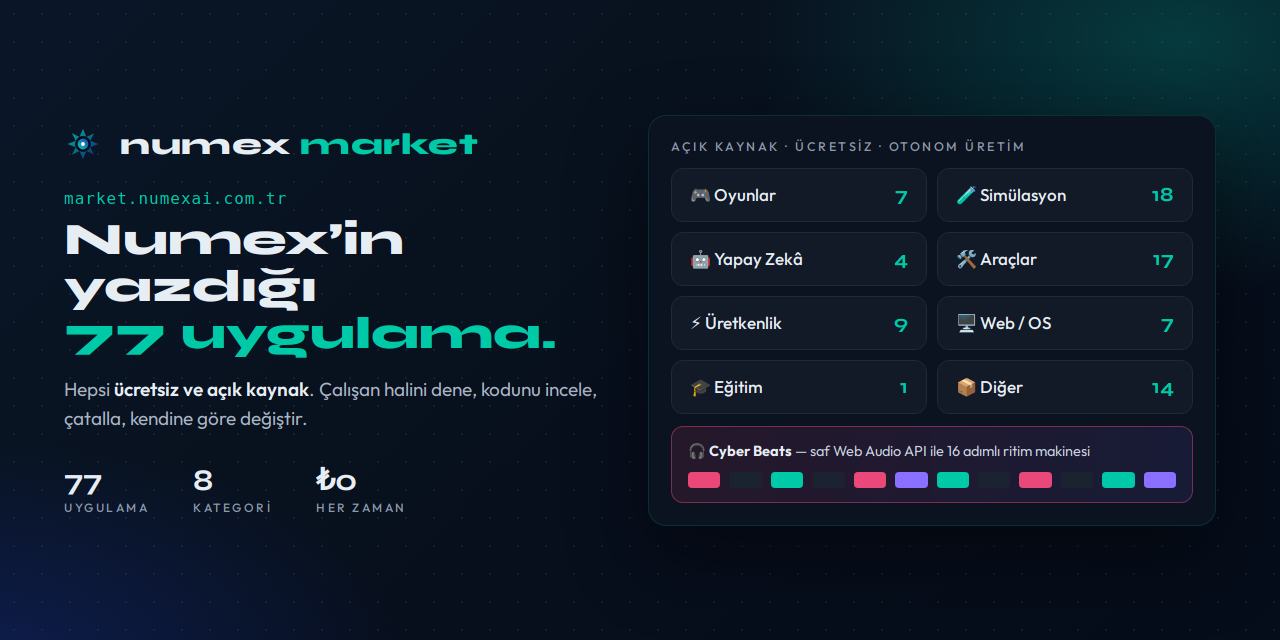
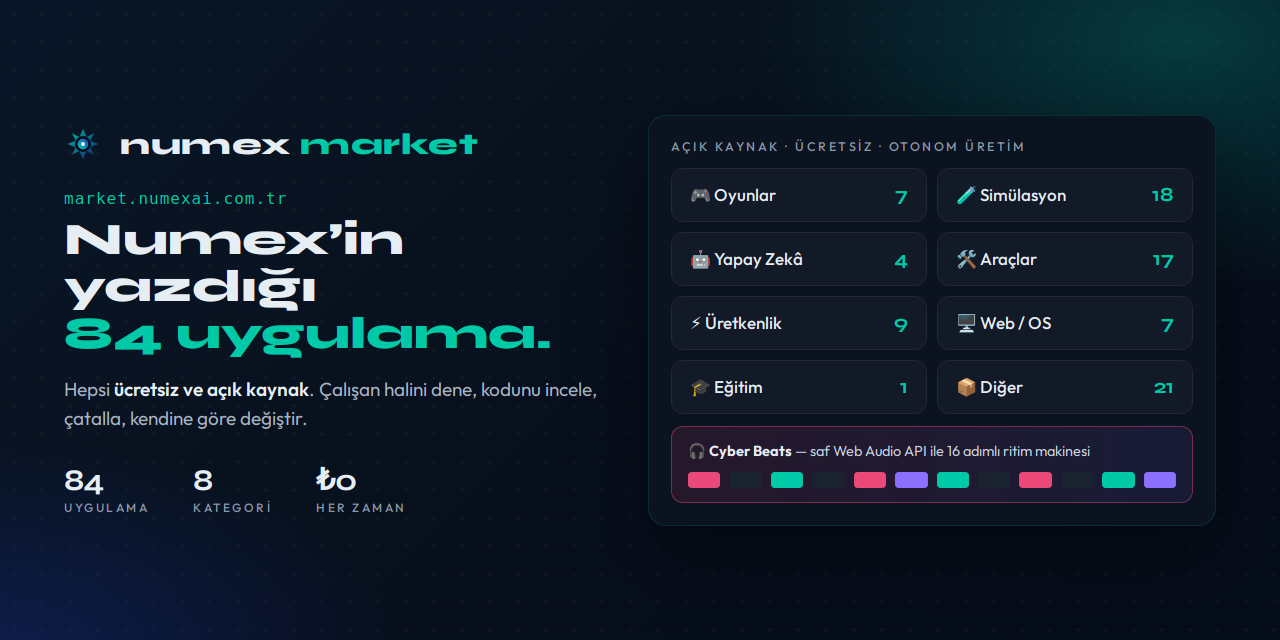
Market güncellendi (numexai.com.tr vitrininden)

Changed region(s): [[0.0312, 0.5, 0.4375, 0.5625], [0.0312, 0.7188, 0.0938, 0.7812], [0.9062, 0.5938, 0.9375, 0.625]]

diff --git a/README.md b/README.md
@@ -45,8 +45,8 @@ Türkçe'ye ve Türk kullanıcısına özel — verileri Türkiye'de, KVKK uyuml
 <a href="https://okul.numexai.com.tr">okul.numexai.com.tr</a> · <a href="urunler/11-numex-okul.md">ayrıntı</a></td>
 </tr>
 <tr>
-<td width="50%"><a href="https://market.numexai.com.tr"><img src="gorseller/kart-market.png" alt="Numex Market — 77 açık kaynak uygulama"></a>
-<b>🛍 Numex Market</b> — Numex'in kendi yazdığı 77 ücretsiz, açık kaynak uygulama<br>
+<td width="50%"><a href="https://market.numexai.com.tr"><img src="gorseller/kart-market.png" alt="Numex Market — 84 açık kaynak uygulama"></a>
+<b>🛍 Numex Market</b> — Numex'in kendi yazdığı 84 ücretsiz, açık kaynak uygulama<br>
 <a href="https://market.numexai.com.tr">market.numexai.com.tr</a> · <a href="urunler/13-numex-market.md">ayrıntı</a></td>
 <td width="50%"><a href="https://pedia.numexai.com.tr"><img src="gorseller/kart-pedia.png" alt="Numexpedia — özgür Türkçe ansiklopedi"></a>
 <b>📖 Numexpedia</b> — bilgisayar ve yapay zekâ, sade Türkçe ile; 28 makale<br>
@@ -90,7 +90,7 @@ Türkçe'ye ve Türk kullanıcısına özel — verileri Türkiye'de, KVKK uyuml
 | **2 × 256 GB** | RAM, çift sunucu | SAS + NAS depolama |
 | **%100** | KVKK uyumu | Veriler Türkiye'de |
 | **100.000** | Hediye token | Geliştirici API'sinde ilk kayıtta |
-| **77** | Açık kaynak uygulama | Numex Market · 8 kategori · ₺0 |
+| **84** | Açık kaynak uygulama | Numex Market · 8 kategori · ₺0 |
 | **28** | Türkçe makale | Numexpedia · 8 kategori |
 | **16+** | Aile üyesi | Uygulamalar · Geliştirici araçları · Platform & topluluk |
 
@@ -143,7 +143,7 @@ flowchart TB
 | [numexai.com.tr/aile](https://www.numexai.com.tr/aile) | Numex Ailesi haritası |
 | [codex.numexai.com.tr](https://codex.numexai.com.tr) | Numex Codex — IDE, VS Code eklentisi, CLI |
 | [okul.numexai.com.tr](https://okul.numexai.com.tr) | Numex Okul — doğrulanmış testler |
-| [market.numexai.com.tr](https://market.numexai.com.tr) | Numex Market — 77 açık kaynak uygulama |
+| [market.numexai.com.tr](https://market.numexai.com.tr) | Numex Market — 84 açık kaynak uygulama |
 | [dene.numexai.com.tr](https://dene.numexai.com.tr/cyberbeats/) | Market uygulamalarının canlı demoları |
 | [hub.numexai.com.tr](https://hub.numexai.com.tr) | Numex Hub — AI depo yönetimi, Topluluk Vitrini |
 | [forge.numexai.com.tr](https://forge.numexai.com.tr) | Numex Forge — Gitea tabanlı Git sunucusu |
@@ -160,7 +160,7 @@ flowchart TB
 | 💬 | **Numex AI** | Herkes | Türkçe sohbet, kod, görsel, ses, belge analizi, web araması, karakterler, Agent modu | [→](urunler/01-numex-ai-platform.md) |
 | 🎓 | **Numex Okul** | Öğrenci · veli · öğretmen | Bir AI soruyu üretir, ikinci AI doğrular; LGS/TYT/AYT/ehliyet; ekranda çöz veya PDF | [→](urunler/11-numex-okul.md) |
 | 🧩 | **Numex Codex** | Geliştirici | Türkçe kod ajanı: Web editör, masaüstü IDE (v2.9.59), VS Code eklentisi; Sohbet · Plan · Otonom · Hata Avcısı | [→](urunler/03-numex-codex-ide.md) |
-| 🛍 | **Numex Market** | Herkes | Numex'in otonom ürettiği 77 ücretsiz, açık kaynak uygulama; 8 kategori | [→](urunler/13-numex-market.md) |
+| 🛍 | **Numex Market** | Herkes | Numex'in otonom ürettiği 84 ücretsiz, açık kaynak uygulama; 8 kategori | [→](urunler/13-numex-market.md) |
 | ⌨ | **Numex CLI** | Geliştirici | Terminalde otonom ajan (v3.3.10), misyon/plan modu, uzaktan PC köprüsü, MCP | [→](urunler/02-numex-cli.md) |
 | 🧰 | **Codex SDK** | Geliştirici | Çekirdeği uygulamana göm: chat · embeddings · images · models · search · CLI Bridge | [→](urunler/05-api-ve-sdk.md) |
 | 🔌 | **Developer API** | Yazılım ekipleri | REST v1; `numex-pro` · `fast` · `think` · `vision` · `code`; streaming, function calling; ilk kayıtta 100K token | [→](urunler/05-api-ve-sdk.md) |
@@ -331,7 +331,7 @@ KDV dahil, şeffaf. Yıllık ödemede **2 ay bedava**.
 | **2024** | **Detective Mode™** — çoklu model tartışma ve hakem sistemi. |
 | **2025** | **v3.0** — sıfırdan yeniden yazım: Pipeline, karakterler, planlar, Dış API (`/v1/chat/completions`), admin paneli, çift sunucu. **DeepView™ v1.0** (Mart). |
 | **2026 Şubat** | **v3.1** — ilk genel kullanıcı sürümü: Pro/Fast/Vision/Code, paylaşılabilir sohbetler, misafir kullanım, OAuth, Codex editörü. |
-| **2026** | **Numex Ailesi**: Codex IDE v2.9.59 & CLI v3.3.10, Okul, Market (77 uygulama), Numexpedia, Hub & Forge, Oyun Bahçesi; aynı ekipten **Pusulam** ve **PC Doktoru v3.1**. |
+| **2026** | **Numex Ailesi**: Codex IDE v2.9.59 & CLI v3.3.10, Okul, Market (84 uygulama), Numexpedia, Hub & Forge, Oyun Bahçesi; aynı ekipten **Pusulam** ve **PC Doktoru v3.1**. |
 
 **Kurucu — Nurullah Şahin** · Kurucu & AI Mimarı. Sivas Gürün kökenli, İstanbul'da yaşayan teknoloji
 girişimcisi; 2010'dan bu yana yapay zeka ve makine öğrenmesi alanında çalışıyor. Panorama Istanbul

diff --git a/README.en.md b/README.en.md
@@ -35,8 +35,8 @@ Turkish-first by design — data stays in Türkiye, KVKK (Turkish GDPR) complian
 <a href="https://okul.numexai.com.tr">okul.numexai.com.tr</a> · <a href="urunler/11-numex-okul.md">details</a></td>
 </tr>
 <tr>
-<td width="50%"><a href="https://market.numexai.com.tr"><img src="gorseller/kart-market.png" alt="Numex Market — 77 açık kaynak uygulama"></a>
-<b>🛍 Numex Market</b> — 77 free, open-source apps Numex built by itself<br>
+<td width="50%"><a href="https://market.numexai.com.tr"><img src="gorseller/kart-market.png" alt="Numex Market — 84 açık kaynak uygulama"></a>
+<b>🛍 Numex Market</b> — 84 free, open-source apps Numex built by itself<br>
 <a href="https://market.numexai.com.tr">market.numexai.com.tr</a> · <a href="urunler/13-numex-market.md">details</a></td>
 <td width="50%"><a href="https://pedia.numexai.com.tr"><img src="gorseller/kart-pedia.png" alt="Numexpedia — özgür Türkçe ansiklopedi"></a>
 <b>📖 Numexpedia</b> — computing and AI explained in plain Turkish; 28 articles<br>
@@ -54,7 +54,7 @@ Turkish-first by design — data stays in Türkiye, KVKK (Turkish GDPR) complian
 | **16+** | Products in the Numex family |
 | **5-stage** | Pipeline that turns every answer into natural Turkish |
 | **128K** | Token context window |
-| **77** | Open-source apps in Numex Market, all built autonomously |
+| **84** | Open-source apps in Numex Market, all built autonomously |
 | **28** | Articles in Numexpedia, a free Turkish encyclopedia |
 | **2 × 256 GB** | RAM, dual-server infrastructure in Türkiye |
 | **100,000** | Free API tokens on sign-up |
@@ -100,7 +100,7 @@ flowchart TB
 | 💬 **Numex AI** | Everyone | Turkish chat, code, documents, web search, vision, voice, cultural characters, Agent mode | [numexai.com.tr](https://numexai.com.tr) |
 | 🎓 **Numex Okul** | Students, parents, teachers | One AI writes each question, a second AI solves it independently; mismatches are discarded. LGS/TYT/AYT exam prep, driving test; solve on screen or export PDF | [okul.numexai.com.tr](https://okul.numexai.com.tr) |
 | 🧩 **Numex Codex** | Developers | Turkish coding agent: browser editor, desktop IDE (v2.9.59, VS Code based), VS Code extension. Modes: Chat · Plan · Autonomous · Bug Hunter | [codex.numexai.com.tr](https://codex.numexai.com.tr) |
-| 🛍 **Numex Market** | Everyone | 77 free, open-source apps Numex built autonomously, in 8 categories — try live, read the source, fork | [market.numexai.com.tr](https://market.numexai.com.tr) |
+| 🛍 **Numex Market** | Everyone | 84 free, open-source apps Numex built autonomously, in 8 categories — try live, read the source, fork | [market.numexai.com.tr](https://market.numexai.com.tr) |
 | ⌨ **Numex CLI** | Developers | Autonomous agent in the terminal (v3.3.10): plan mode, long-running missions, undo, offline via Ollama, remote-PC bridge, MCP | `npm i -g @numexai/cli` |
 | 🧰 **Codex SDK** | Developers | chat · embeddings · images · models · search + a CLI Bridge to embed the agent anywhere | `npm i numexcodex-sdk` |
 | 🔌 **Developer API** | Teams | REST v1 with `numex-pro`, `numex-fast`, `numex-think`, `numex-vision`, `numex-code`; streaming, function calling | [API docs](urunler/05-api-ve-sdk.md) |
@@ -129,7 +129,7 @@ flowchart TB
    cannot be marked "done" without live evidence — HTTP 200, passing tests, or DOM checks.
 
 **Proof over claims** runs through the whole family: Detective Mode in chat, dual-AI verification
-in Okul, FinishGate in code — and Numex Market, where 77 autonomously built, verified apps are open
+in Okul, FinishGate in code — and Numex Market, where 84 autonomously built, verified apps are open
 for anyone to inspect.
 
 ## 🇹🇷 Cultural characters

diff --git a/urunler/13-numex-market.md b/urunler/13-numex-market.md
@@ -7,7 +7,7 @@
 > **Numex AI'nın sıfırdan kodladığı uygulamalar — hepsi ücretsiz ve açık kaynak.**
 > İster çalışan halini indir, ister kodunu incele, ister kendine göre değiştir.
 
-| **77** | **8** | **₺0** |
+| **84** | **8** | **₺0** |
 |:---:|:---:|:---:|
 | Uygulama | Kategori | Her zaman ücretsiz |
 
@@ -51,7 +51,7 @@ Market uygulamaları **dene.numexai.com.tr** üzerinde kurulum gerektirmeden can
 | 🔊 **Ses motoru** | Tüm sesler **saf Web Audio API** ile sentezlenir — tek bir ses dosyası yok |
 | 🎨 **Tasarım** | Neon siberpunk arayüz, durum göstergesi (● ÇALIYOR) |
 
-Bir cümlelik istekten çalışan, test edilmiş ve yayınlanmış bir uygulamaya: Market'teki 77
+Bir cümlelik istekten çalışan, test edilmiş ve yayınlanmış bir uygulamaya: Market'teki 84
 uygulamanın her biri bu hattan geçti.
 
 ## Nasıl kullanılır?
@@ -66,7 +66,7 @@ uygulamanın her biri bu hattan geçti.
 ```mermaid
 flowchart LR
   CORE[🧠 Core — Beyin<br/>otonom üretim] --> FORGE[(🏗 Forge<br/>kaynak kod)]
-  FORGE --> MARKET[🛍 Market<br/>77 uygulama]
+  FORGE --> MARKET[🛍 Market<br/>84 uygulama]
   MARKET -->|indir| USER[👤 Kullanıcı]
   MARKET -->|çatalla| HUB[📦 Hub]
   HUB -->|düzenle| CODEX[🧩 Codex]

diff --git a/urunler/README.md b/urunler/README.md
@@ -14,7 +14,7 @@
 | 10 | [PusulamX](10-pusulamx.md) | KOBİ |
 | 11 | [Numex Okul](11-numex-okul.md) | Eğitim — doğrulanmış testler |
 | 12 | [Güvenlik, gizlilik ve KVKK](12-guvenlik-kvkk.md) | Kurumsal |
-| 13 | [Numex Market](13-numex-market.md) | Herkes — 77 açık kaynak uygulama |
+| 13 | [Numex Market](13-numex-market.md) | Herkes — 84 açık kaynak uygulama |
 | 14 | [Numexpedia](14-numexpedia.md) | Herkes — Türkçe ansiklopedi |
 | 15 | [Numex Ailesi](15-numex-ailesi.md) | Ekosistem haritası |
 | 16 | [Oyun Bahçesi](16-oyun-bahcesi.md) | Herkes |

diff --git a/urunler/06-hub-ve-forge.md b/urunler/06-hub-ve-forge.md
@@ -91,7 +91,7 @@ Numex'in otonom ürettiği uygulamaların kaynak kodu Forge'da herkese açık du
 flowchart LR
     CODEX[Codex Web / IDE / CLI] -->|proje| FORGE[(🏗 Forge<br/>Gitea · gerçek Git)]
     HUB[📦 Hub<br/>AI depo arayüzü] <--> FORGE
-    MARKET[🛍 Numex Market<br/>77 açık kaynak uygulama] -->|kaynak kodu| FORGE
+    MARKET[🛍 Numex Market<br/>84 açık kaynak uygulama] -->|kaynak kodu| FORGE
     PEDIA[📖 Numexpedia] -.bağlantı.-> FORGE
 ```
 
